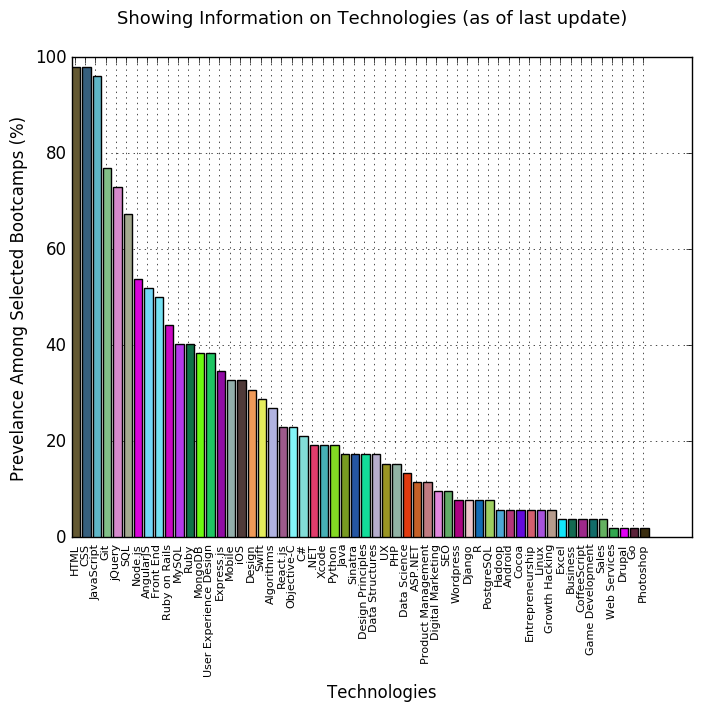
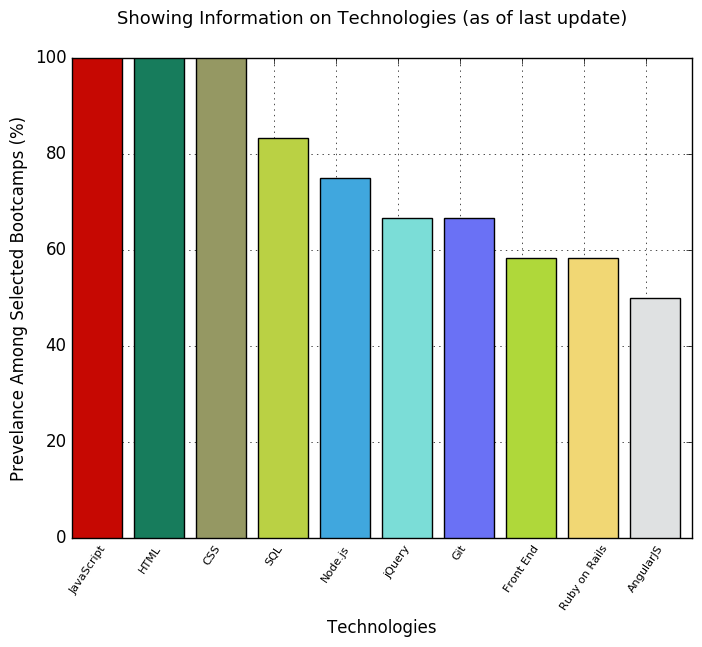
Fixed filename length issue with specific camp search to plot. Have started to get the search to plot function to work. Almost there, but definitely some tinkering to do. Trend to plot should be added, as should functionality for search to plot to trend...

diff --git a/slackbot/testbot.py b/slackbot/testbot.py
@@ -24,7 +24,20 @@ EXAMPLE_COMMAND = "do"
 # instantiate Slack & Twilio clients
 slack_client = SlackClient(os.environ.get('SLACK_BOT_TOKEN'))
 
-test_list = ['testing', 'technologies']
+plot_list = ['locations', 'technologies']
+
+default_command_data = {
+        'category': [],
+        'camps': [],
+        'items': {
+            'technologies': [],
+            'locations': []
+        },
+        'days': 1,
+        'max_items': 10,
+        'tracking_group': None,
+        'current/trend': 'current'
+    }
 
 
 def handle_command(command, channel, last_search, last_trend, stored_command_data):
@@ -45,6 +58,22 @@ def handle_command(command, channel, last_search, last_trend, stored_command_dat
     if command.lower().startswith('search'):
         keys = ['filler'] + input_to_searchkeys(command) + ['Slack']
         out_string, result_data = search_wrapper.main(keys)
+        last_search = keys
+        stored_command_data = default_command_data
+        
+        for item in plot_list:
+            if 'Category' in result_data.key_list.keys() and item in result_data.key_list['Category']:
+                stored_command_data['category'].append(item)
+        """if 'Technology' in result_data.key_list.keys():
+            for tech in result_data.key_list['Technology']:
+                stored_command_data['items']['technologies'].append(tech)
+        if 'Location' in result_data.key_list.keys():
+            for tech in result_data.key_list['Location']:
+                stored_command_data['items']['locations'].append(tech)"""
+        stored_command_data['camps'] = result_data.camps
+
+        print stored_command_data
+
         print result_data.key_list, result_data.camps
         #response = search_wrapper.main(keys)
         #RUN THROUGH TERMINAL OUTPUT
@@ -75,7 +104,7 @@ def handle_command(command, channel, last_search, last_trend, stored_command_dat
 
 
     plot = False
-    if command.lower().startswith('plot'):
+    if command.lower().startswith('plot that!'):
 
         #GATHER PLOT COMMAND DATA
 
@@ -94,14 +123,15 @@ def handle_command(command, channel, last_search, last_trend, stored_command_dat
                         command = str(command[0])
             return command
 
-        commands = command[5:].split('/')
+        """commands = command[5:].split('/')
         commands[2] = type_correct(commands[2], False)
-        commands[3] = type_correct(commands[3], True)
+        commands[3] = type_correct(commands[3], True)"""
         #print commands[3]
 
         #MAKE PLOT
-        plot_file_name, plot_title = tracking.plot_changes(int(commands[0]), str(commands[1]), current_status=True, max_items=commands[2],
-            tracking_group=commands[3], percentage=True, save_plot=True, slack_post=True, show_plot=False)
+        plot_file_name, plot_title = tracking.plot_changes(stored_command_data['days'], stored_command_data['category'][0], current_status=True,
+            max_items=stored_command_data['max_items'], tracking_group=stored_command_data['camps'],
+            percentage=True, save_plot=True, slack_post=True, show_plot=False)
         plot_file_name += '.png'
         #input_command = 'python generate_plot.py 10 technologies 12 True True'# + command[7:]
         #response = os.popen(input_command).read()
@@ -122,9 +152,13 @@ def handle_command(command, channel, last_search, last_trend, stored_command_dat
         """def upload(self, file_, content=None, filetype=None, filename=None,
                title=None, initial_comment=None, channels=None):"""
         slack.files.upload(plot_file_name, filename=(plot_title + '.png'), title=plot_title, channels=channel)
-        slack_client.api_call("chat.postMessage", channel=channel,
-                              text='How many days back would you like to plot for?', as_user=True)
-        #slack_client.api_call('files.upload', file=plot_file_name, channel=channel, filename=(plot_title + '.png'), title=plot_title)
+
+
+
+        """slack_client.api_call("chat.postMessage", channel=channel,
+                              text='How many days back would you like to plot for?', as_user=True)"""
+
+
     else:
         #MAKE THE API CALL AS SEARCHBOT
         slack_client.api_call("chat.postMessage", channel=channel,
@@ -160,7 +194,7 @@ def parse_slack_output(slack_rtm_output):
 if __name__ == "__main__":
     last_search = None
     last_trend = None
-    stored_command_data = {}
+    stored_command_data = default_command_data
     READ_WEBSOCKET_DELAY = 0.3 # 1 second delay between reading from firehose
     if slack_client.rtm_connect():
         print("TestBot connected and running!")

diff --git a/tracking.py b/tracking.py
@@ -396,8 +396,10 @@ def plot_changes(days_back, category, start_days_back=0, current_status=False, t
         #Set plot title
         if tracking_group == None:
             tgroup_label = ''
-        else:
+        elif len(str(tracking_group)) < 100:
             tgroup_label = ' (Tracking Group: ' + str(tracking_group) + ')'
+        else:
+            tgroup_label = ' (Tracking Group: Various Camps)'
         
         title = 'Showing Information on ' + str(category).title() + ' for: ' \
          + date_labels[0] + ' to ' + date_labels[-1] + '\n' + tgroup_label
